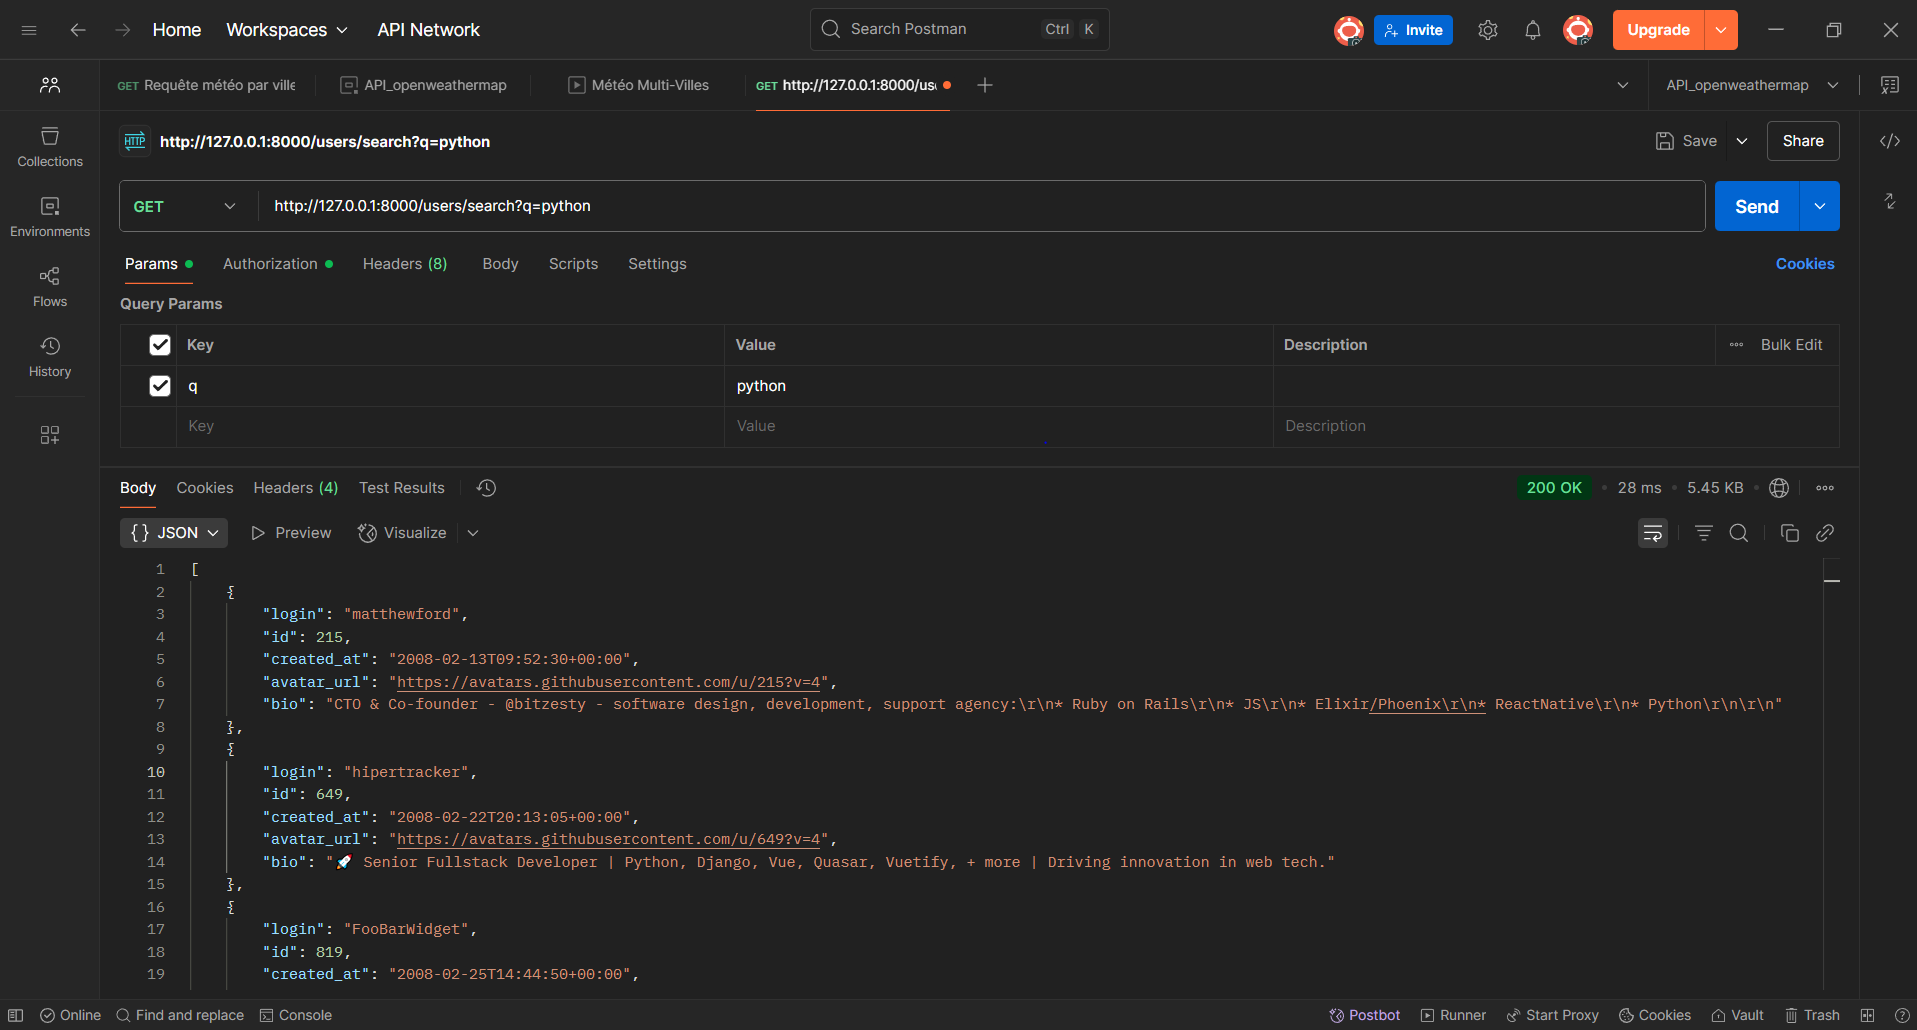
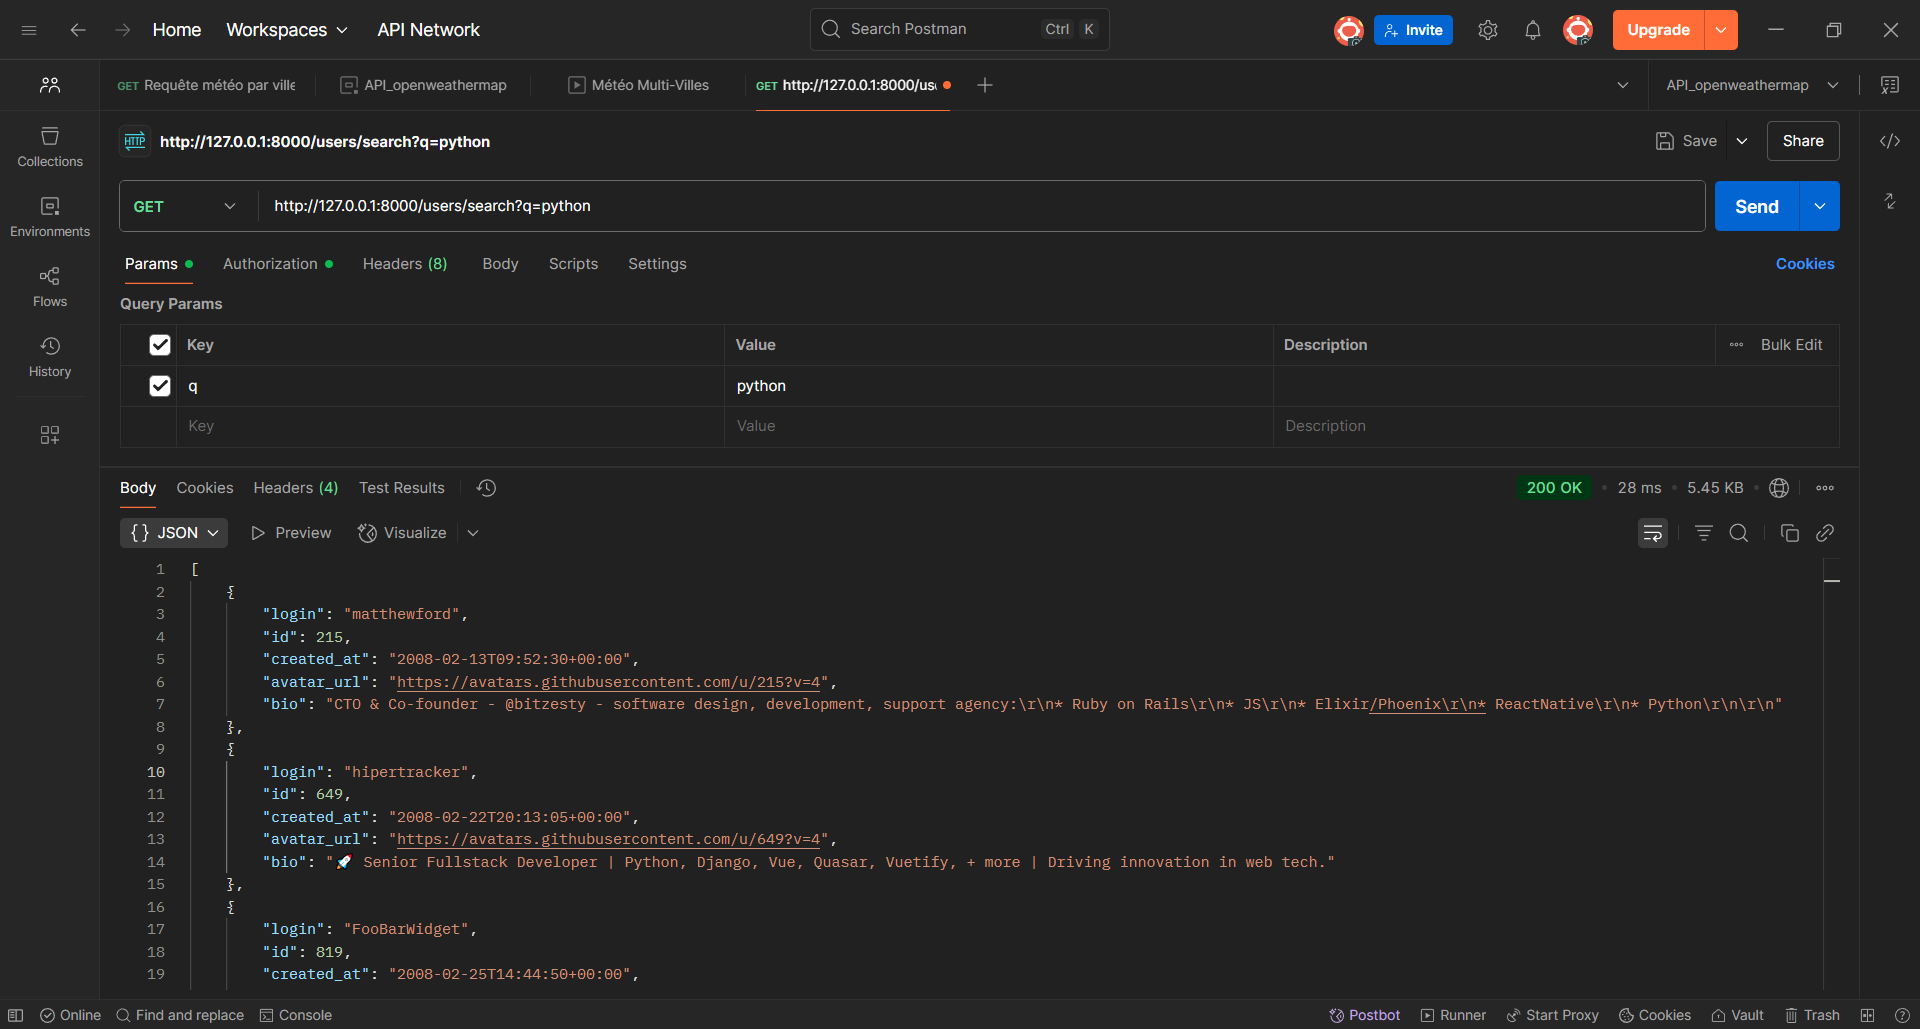
Fix README

diff --git a/README.md b/README.md
@@ -255,7 +255,7 @@ Settings recommandés :
 *Interface interactive permettant de tester l'API directement depuis le navigateur*
 
 ### Exemple de Réponse API
-![Réponse API](docs/images/api-reponse.PNG)
+![Réponse API](docs/images/api-reponse.png)
 *Exemple de réponse JSON pour la requête GET /users/*
 
 ### Structure des Données
